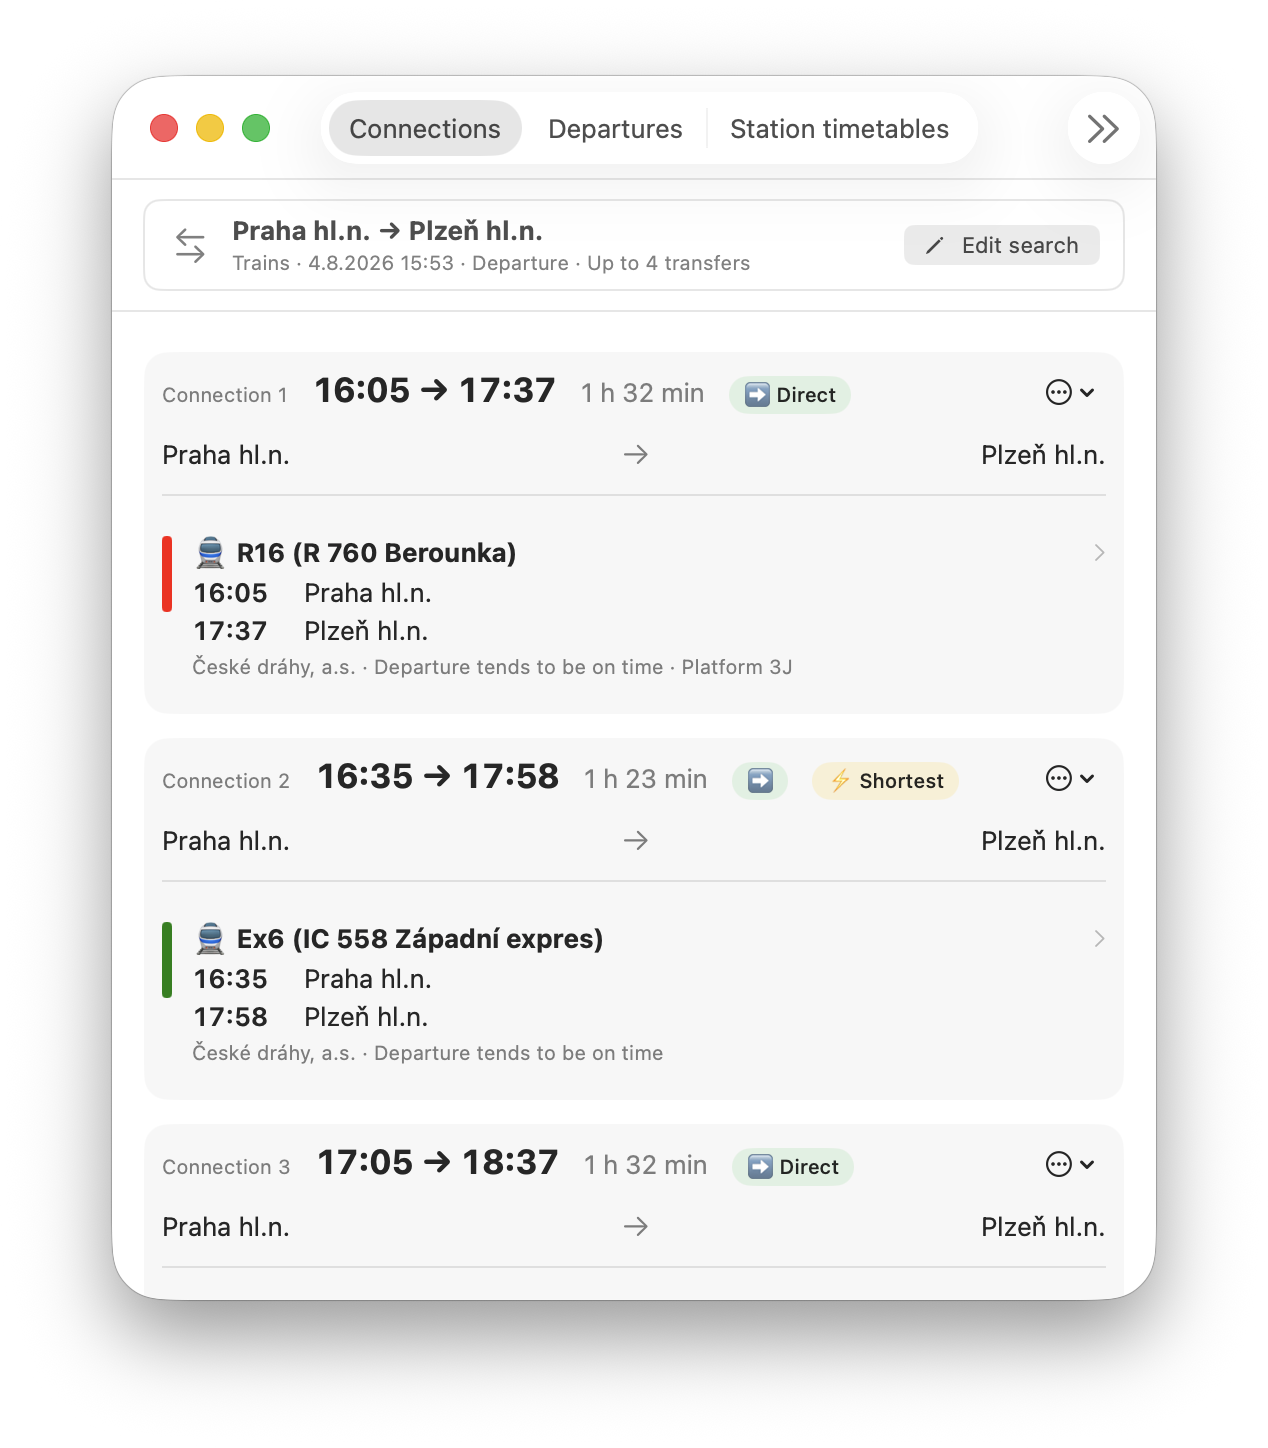
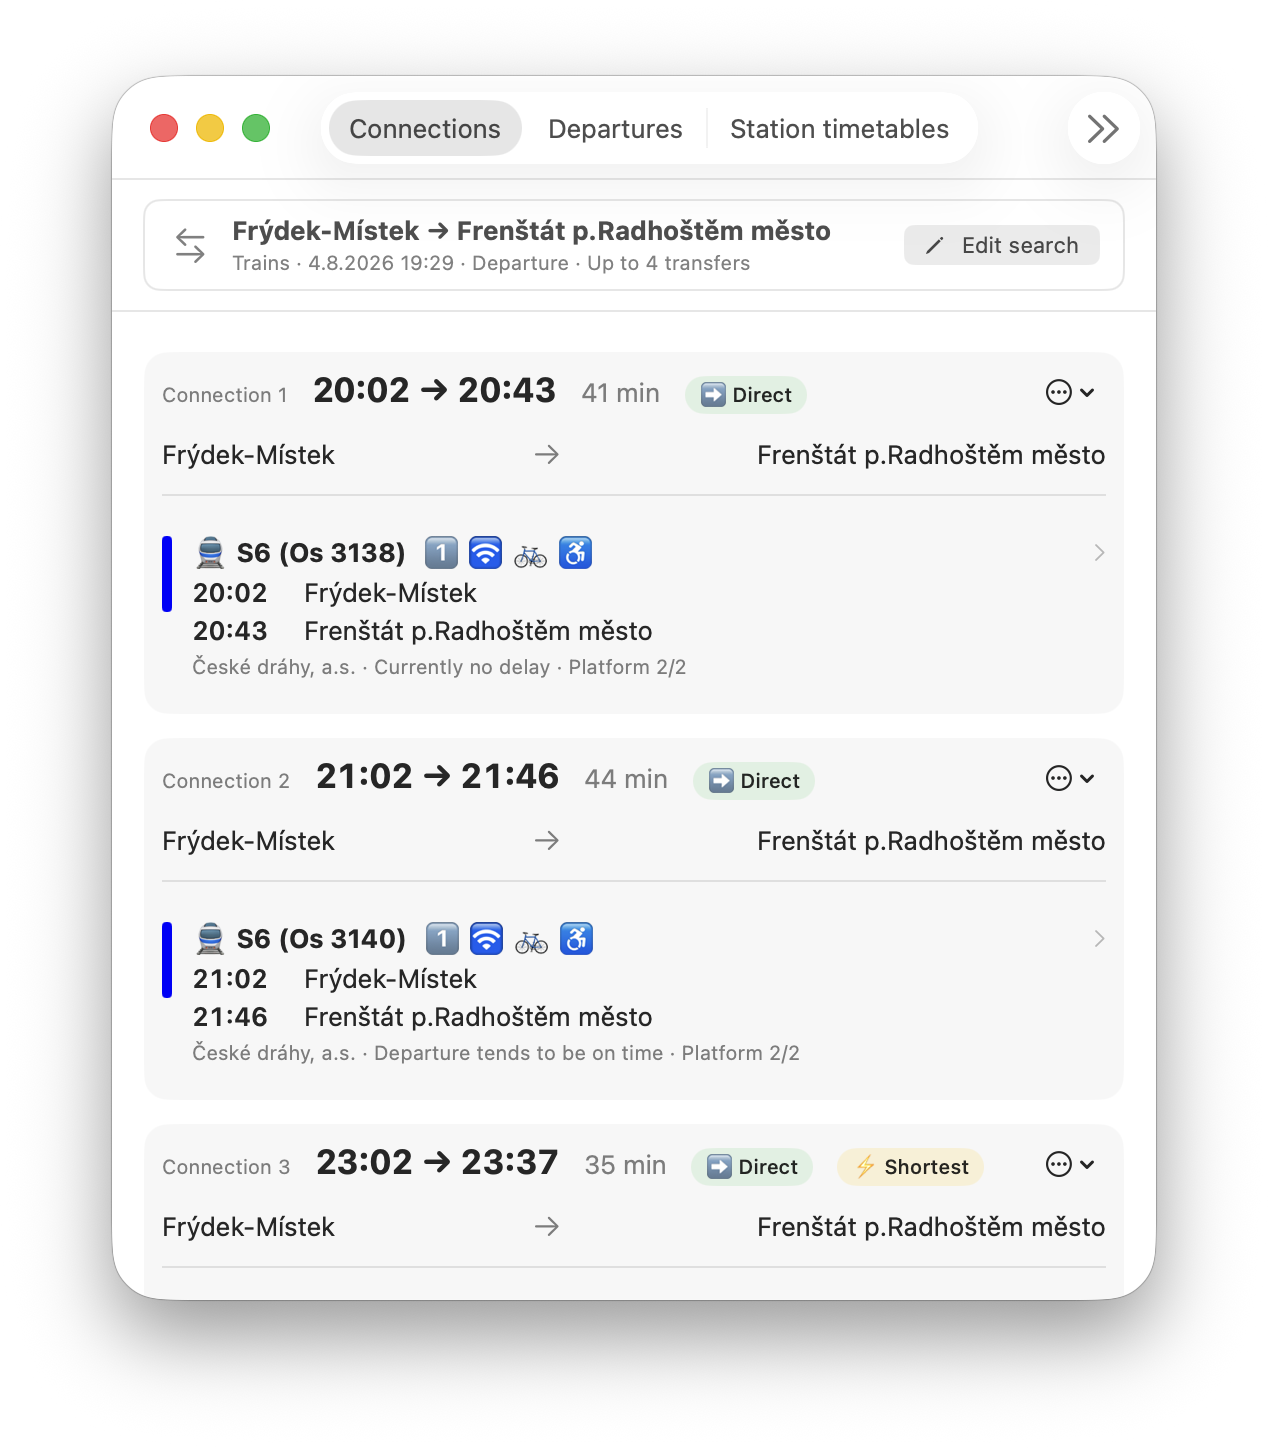
Refresh README screenshot with service symbols
Closes #5

diff --git a/README.md b/README.md
@@ -5,7 +5,7 @@
 Kaštan is an open-source companion for occasional personal [IDOS](https://idos.cz/en/) searches. Use it as a
 native macOS app or from a terminal, or integrate its search engine as a Swift library or local MCP server.
 
-![Kaštan for macOS showing train connections from Prague to Plzeň](docs/images/kastan-macos-connections.png)
+![Kaštan for macOS showing direct train connections from Frýdek-Místek to Frenštát pod Radhoštěm with service-information symbols](docs/images/kastan-macos-connections.png)
 
 Kaštan reads publicly reachable IDOS web pages. It is intended for personal, low-frequency use rather than as
 a stable or guaranteed data API.
